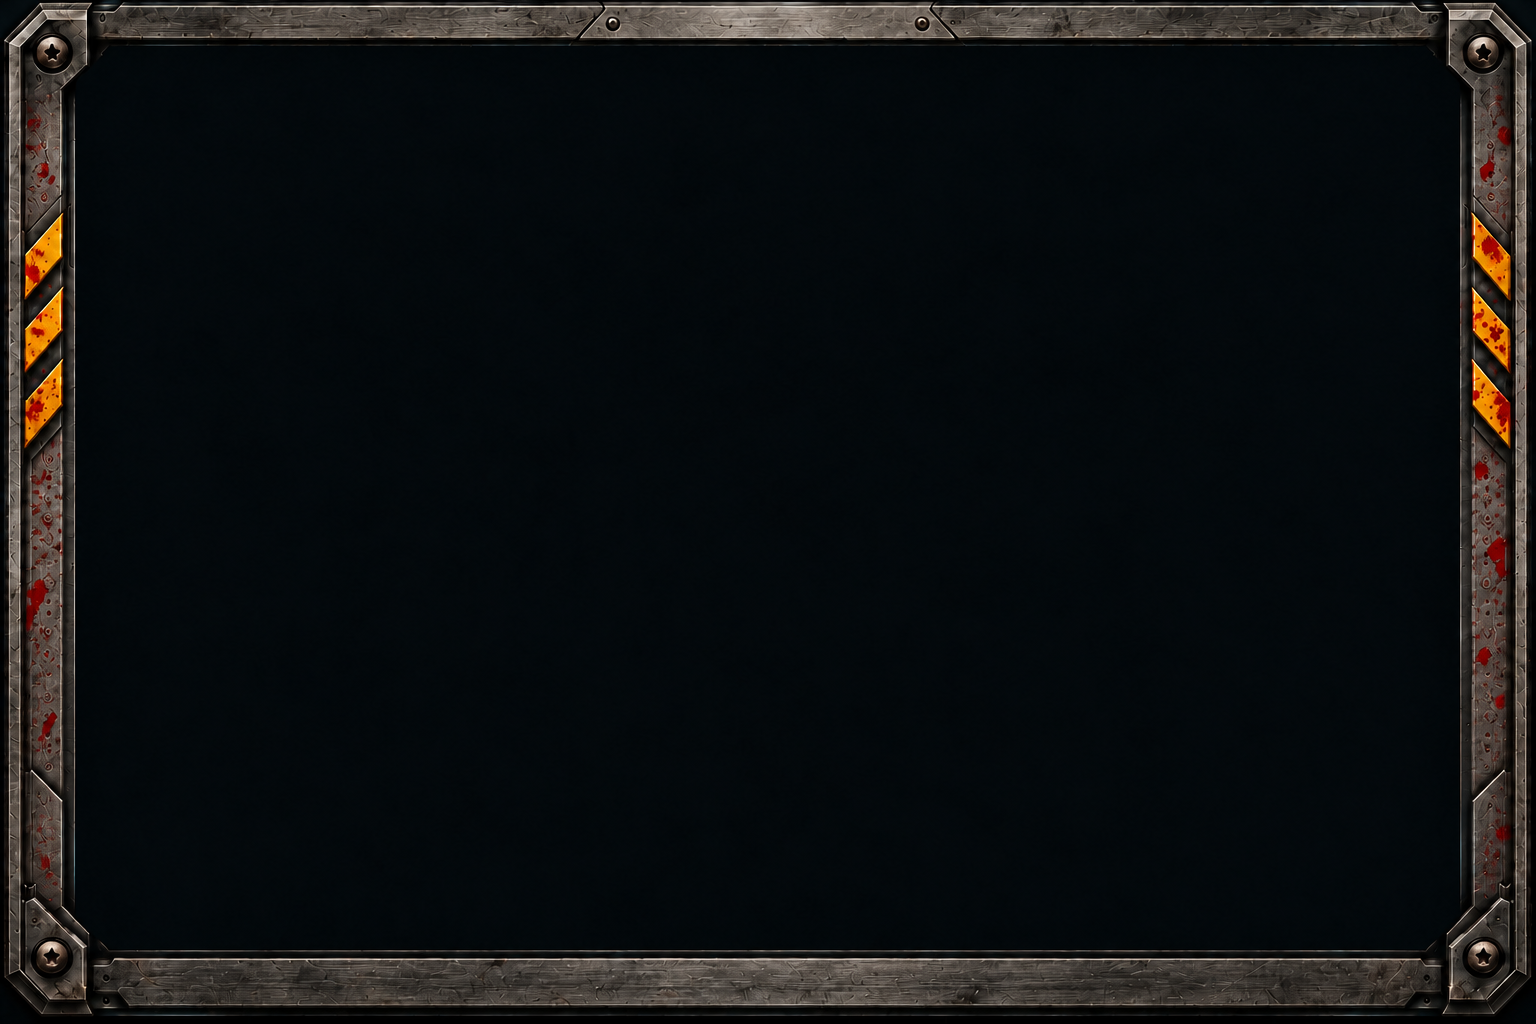
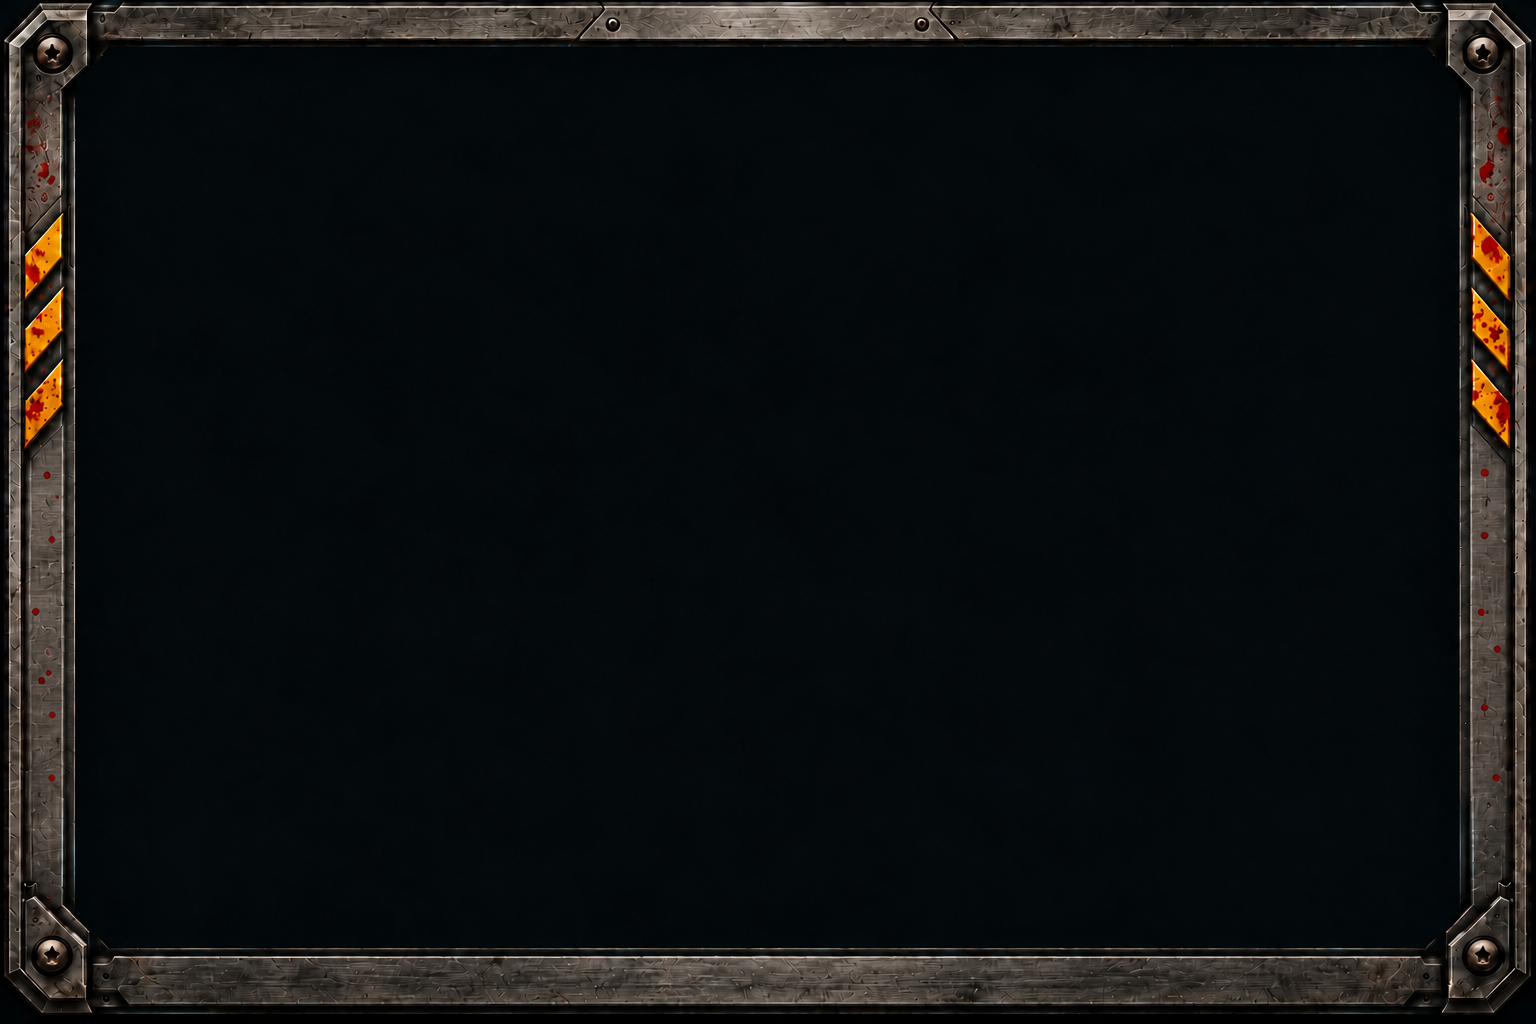
Replace lower side fastener impressions with sparse red dots

diff --git a/Assets/OnyxRack/README-1.0.3.md b/Assets/OnyxRack/README-1.0.3.md
@@ -1,5 +1,13 @@
 # Matte chassis — 1.0.3
 
+Latest correction: the lower strips below both yellow inserts are plain brushed
+metal with sparse tiny solid red dots. Circular fastener impressions and broad
+red blotches in these strips are removed. Large corner fasteners are unchanged.
+
+## Final sparse-dot corrective prompt
+
+Precise corrective edit, not a redesign. Keep exact 1536x1024 image, empty black interior, matte brushed frame, top plaque, yellow/black bars and four large corner screws unchanged. The user rejects the small screws/round impressions BELOW the yellow bars. On BOTH side rails, completely REPLACE the vertical strips below the yellow inserts (approximately x=1.5%-4.4% and x=95.6%-98.5%, y=43%-88%) with fresh, uninterrupted matte brushed gunmetal. Paint those strips from scratch: NO small screws, rivets, bolts, washers, holes, pits, round rings, countersinks, embossed circles, repeating round marks, or ghosts of previous fasteners anywhere in those lower strips. Use only fine LINEAR brushed grain and subtle diffuse tarnish. Remove all large red splashes/blotches from these lower strips too. After the strips are clean, add ONLY 10 to 15 TINY solid dark-crimson paint DOTS on each strip, irregularly scattered, each dot 1 to 3 pixels, widely spaced, total coverage well below 1%. Dots must be solid pinpricks without outlines, rings, shadows or metal highlights. No splatter patches or drips. Keep the yellow inserts and their existing red accents as they are. Do not alter top branding plaque, large corner screws, rails geometry, interior, lighting or any other region. The critical result is smooth screw-free lower side rails with just a SMALL AMOUNT of LITTLE red dots.
+
 Embedded artwork: `chassis-1.0.3.png`, 1536 x 1024. Edited with the built-in
 image_gen tool using the prior chassis as its edit target. All branding/text,
 controls, spectrum and heatmap are live JUCE rendering, not part of this bitmap.

diff --git a/SURGERY_1_0_3.md b/SURGERY_1_0_3.md
@@ -1,5 +1,9 @@
 # SURGERY EQ 1.0.3 — matte ONYX and Synesthesia V1
 
+Artwork correction: below the yellow bars, both lower side strips now use
+plain brushed metal and sparse tiny red paint dots, replacing remaining circular
+fastener impressions and larger red patches. No code or audio change.
+
 ## Chassis and branding
 
 The first/default ONYX rack theme retains its layout and live controls, with a
